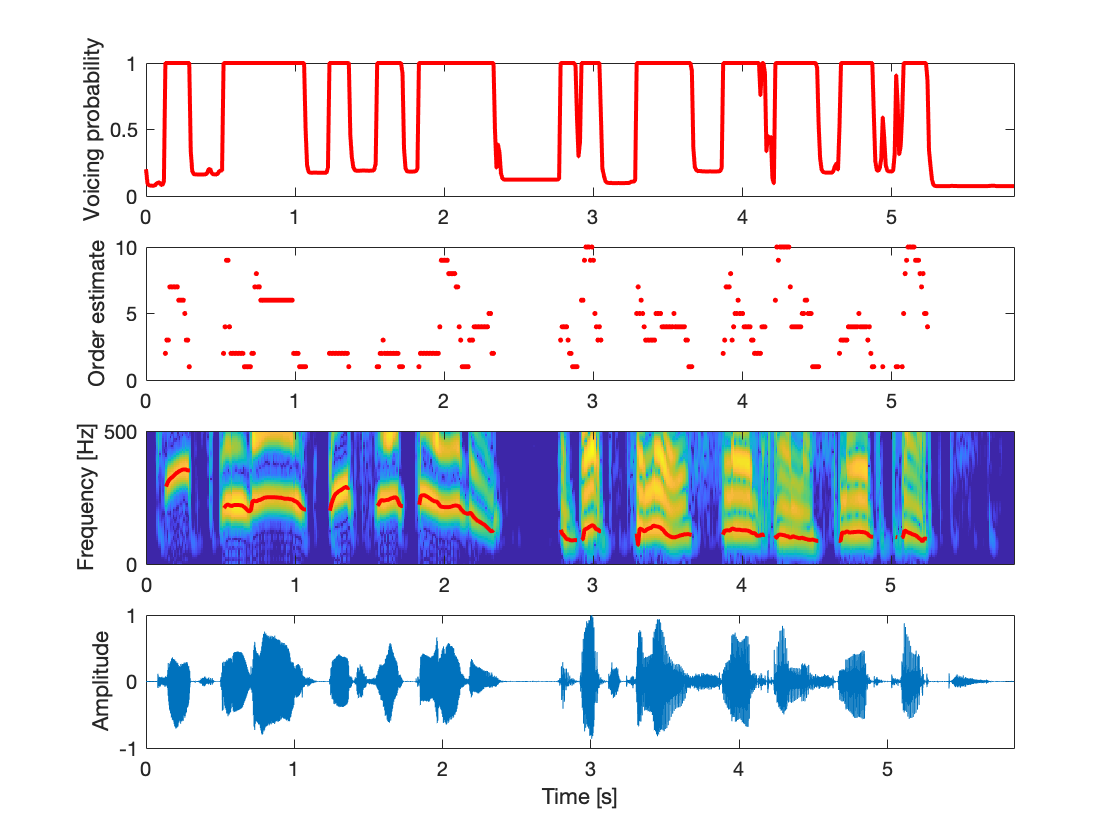
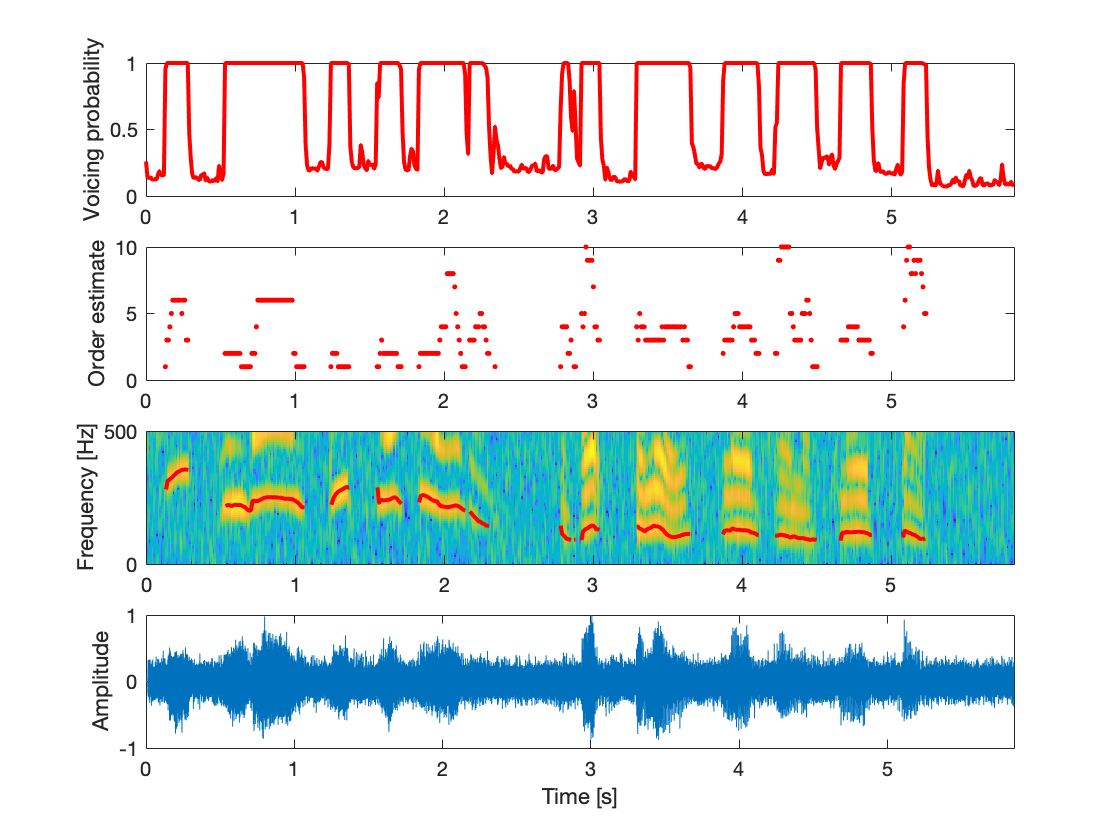
update

diff --git a/run_white_example.m b/run_white_example.m
@@ -4,7 +4,7 @@ close all;
 %% read speech signals
 [cleanspeech, samplingFreq] = audioread(['CleanSpeech.wav']);cleanspeech=cleanspeech(:,1);
 %% generate noisy data
-SNR=inf;
+SNR=0;
 noise=randn(size(cleanspeech)); % White Gaussian noise
 scaled_noise=addnoise(cleanspeech,noise,SNR);
 NoisySignal=cleanspeech+scaled_noise;

diff --git a/README.md b/README.md
@@ -9,13 +9,13 @@ Run run_white_example.m (white Gaussian noise) or run_colored_example.m (factory
 An example under white Gaussian noise:
 
 <p align="center">
-<img src=figures/111.png>
+<img src=figures/222.png>
 
  Figure 1: Pitch estimates under 0 dB white Gaussian noise.
 </p>
 
 <p align="center">
-<img src=figures/222.png>
+<img src=figures/111.png>
 
  Figure 1: Pitch estimates under 0 dB factory noise.
 </p>
